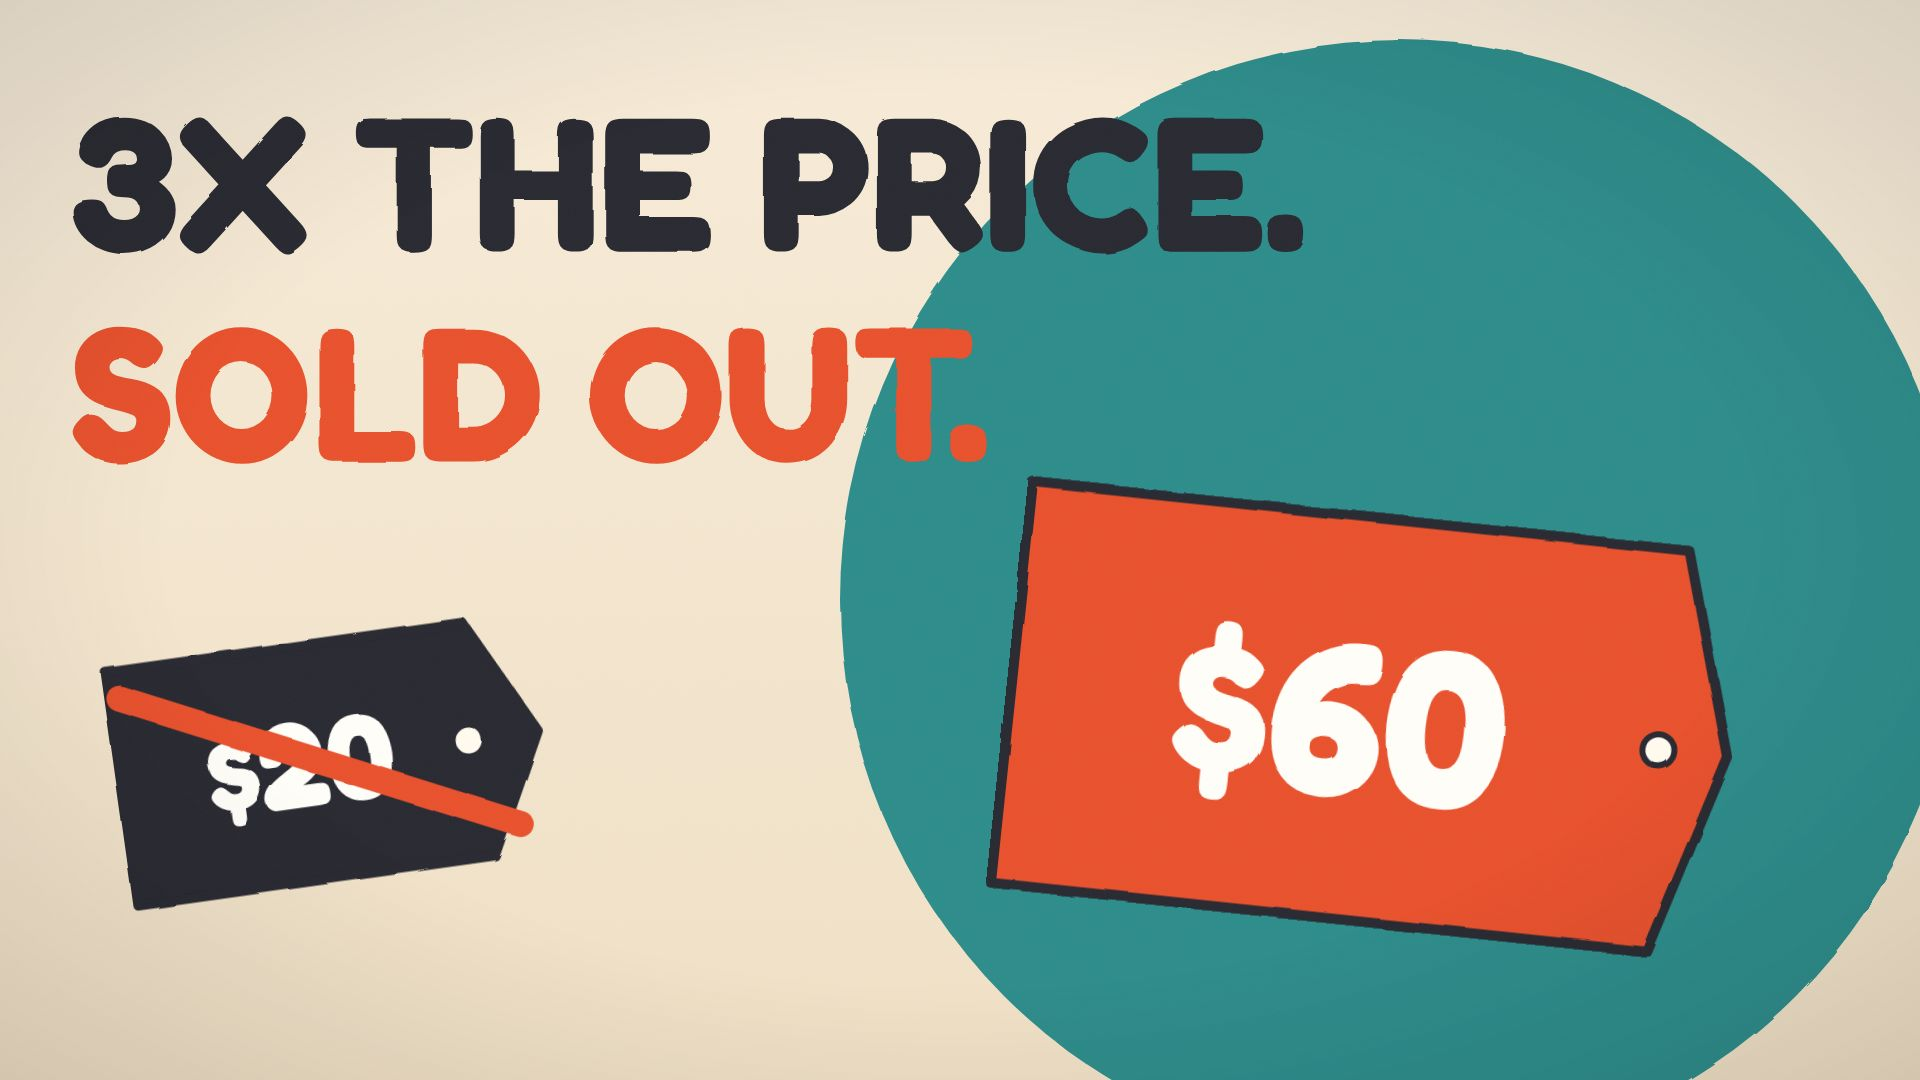
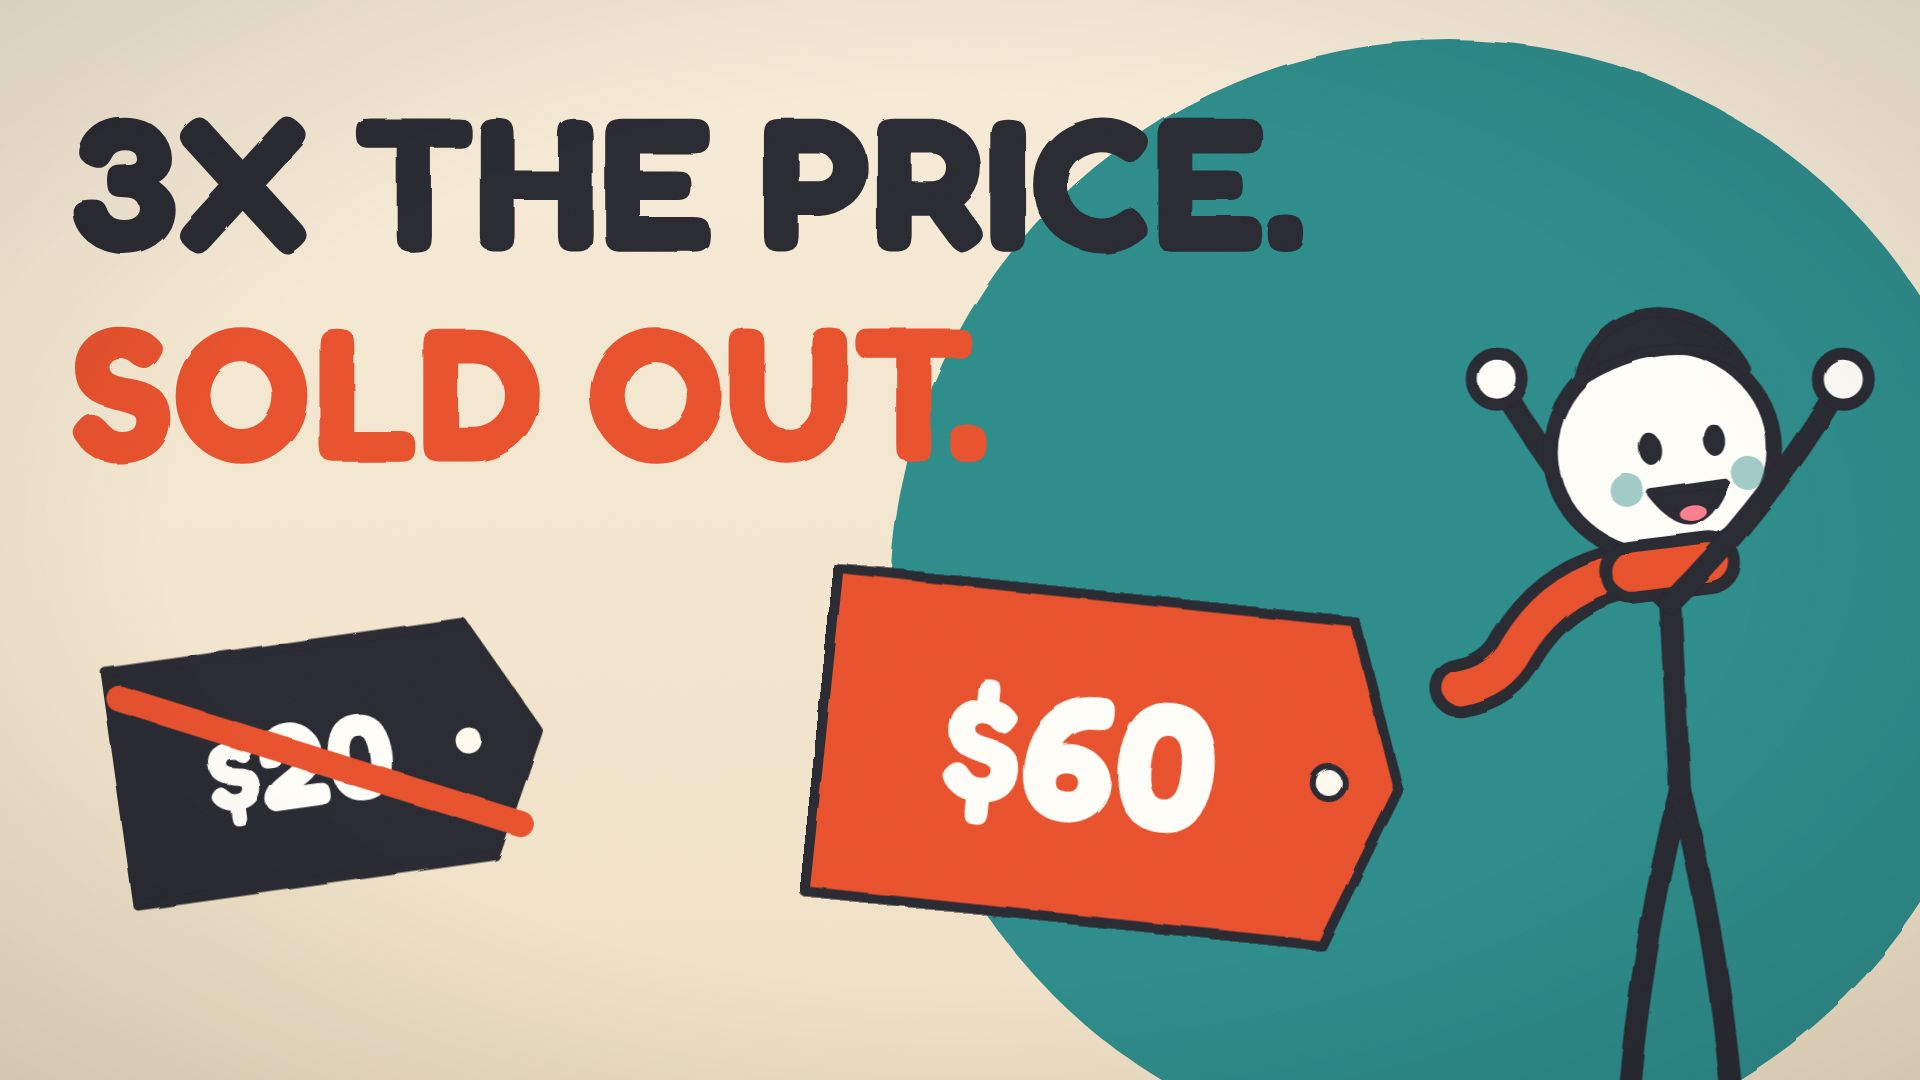
Video 4: thumbnail A with Pip
Claude-Session: https://claude.ai/code/session_01CykSXQo8YSBWY4SXNyJiEp

diff --git a/src/videos/v04/Thumbnail.tsx b/src/videos/v04/Thumbnail.tsx
@@ -25,7 +25,7 @@ const Back = ({ cx }: { cx: number }) => (
 export const V04Thumb: React.FC = () => (
   <Stage
     theme={T}
-    back={<Back cx={1400} />}
+    back={<Back cx={1450} />}
     front={
       <>
         <K.Txt x={70} y={250} size={190} weight={700} fill={T.line} anchor="start">
@@ -38,9 +38,10 @@ export const V04Thumb: React.FC = () => (
           <Tag price="$20" fill={T.line} w={420} size={120} />
           <path d="M-200 -90 L180 90" stroke={T.accent} strokeWidth={26} strokeLinecap="round" />
         </K.At>
-        <K.At x={1370} y={720} r={6}>
-          <Tag price="$60" fill={T.accent} w={720} size={220} />
+        <K.At x={1110} y={760} r={6}>
+          <Tag price="$60" fill={T.accent} w={580} size={180} />
         </K.At>
+        <Stickman theme={T} outfit="scarf" x={1680} floorY={1160} scale={1.7} pose={{ ...poses.cheer, headTilt: -8 }} expression="open" />
       </>
     }
   />
